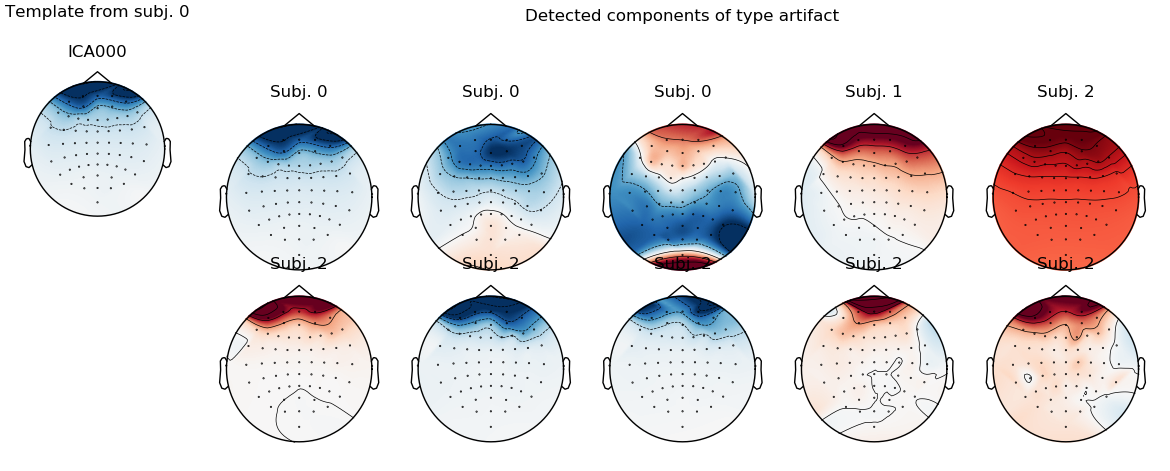
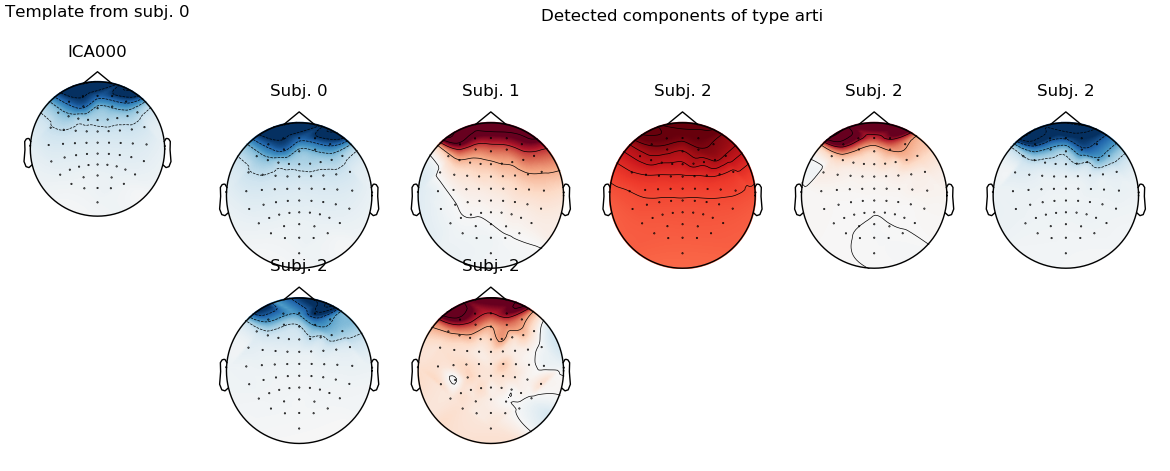
Added new test methods

diff --git a/preprocessing/test.py b/preprocessing/test.py
@@ -1,6 +1,7 @@
 from pirate import Pirates
 import os
 import numpy as np
+import matplotlib.pyplot as plt
 
 cwd = os.getcwd()
 preprocessing = os.path.join(cwd, "preprocessing")
@@ -27,10 +28,9 @@ other = [1,2]
 mov = [33, 42]
 nb = [21, 40, 44, 48]
 comp_template = eye + other + mov + nb
-not_found = [23, 46, 62]
 
 
-Pirates.corr_map(icas, 0, comp_template, dir_templates, threshold=0.80, label="artifact")
+corr = Pirates.corr_map(icas, 0, comp_template, dir_templates, "arti", threshold=0.85)
 #reco_raws = Pirates.reconstruct_raws(icas, raws_clean, "artifact")
 #Pirates.plot_post_psd(reco_raws, dir_post_psd, overwrite=True)
 
@@ -39,39 +39,66 @@ Pirates.corr_map(icas, 0, comp_template, dir_templates, threshold=0.80, label="a
 
 
 import matplotlib.pyplot as plt
+from PIL import Image
 from mne.time_frequency import psd_multitaper, psd_welch
 
+icas = icas
+label = "arti"
+dir_topo_psd = os.getcwd()
+list_sub = sub
+raws = raws_clean
 
-cwd = os.getcwd()
-ax1 = icas[0].plot_components(picks=0)
-path_comp = os.path.join(cwd, "1.png")
-ax1.savefig(path_comp)
-plt.close(ax1)
-sources = icas[0].get_sources(raws_clean[0])
-psds, freqs = psd_welch(sources, picks=[0])
-psds = 10*np.log10(psds)
-psds_mean = psds.mean(0)
-plt.figure(figsize=(2.5,2))
-plt.plot(freqs, psds_mean)
-path_psd = os.path.join(cwd, "la.png")
-plt.savefig(path_psd)
-plt.close("all")
+#Qui defnire
+subjs = list()
+for ica,subj in zip(icas[1:],raws[1:]):
+    img_paths = list()
+    lab = ica.labels_[label]
+    for n in lab:
+        ax1 = ica.plot_components(picks=n, title=subj.__repr__()[10:14])
+        path_comp = os.path.join(dir_topo_psd, "TOPO"  + subj.__repr__()[10:14] + "C" + str(n) + ".png")
+        ax1.savefig(path_comp)
+        plt.close(ax1)
+        sources = ica.get_sources(subj)
+        psds, freqs = psd_welch(sources, picks=[n])
+        psds = 10 * np.log10(psds)
+        psds_mean = psds.mean(0)
+        plt.figure(figsize=(2.5, 2))
+        plt.plot(freqs, psds_mean)
+        path_psd = os.path.join(dir_topo_psd, "PSD" + subj.__repr__()[10:14] + "C" + str(n) + ".png")
+        plt.savefig(path_psd)
+        plt.close("all")
+        psd = Image.open(path_comp)
+        topo = Image.open(path_psd)
+        imgs = [psd, topo]
+        width_0, height_0 = imgs[0].size
+        width_1, height_1 = imgs[1].size
+        real_width = width_0 + width_1
+        real_height = height_1 + 15
+        new_im = Image.new('RGBA', (real_width, real_height))
+        x_offset = 0
+        for im in imgs:
+            new_im.paste(im, (x_offset, 0))
+            x_offset += im.size[0]
 
-from PIL import Image
-psd = Image.open(path_comp)
-topo = Image.open(path_psd)
-imgs = [psd, topo]
-width_0, height_0 = imgs[0].size
-width_1, height_1 = imgs[1].size
-real_width = width_0 + width_1
-real_height = height_1 + 15
-new_im = Image.new('RGBA', (real_width, real_height))
-x_offset = 0
-for im in imgs:
-    new_im.paste(im, (x_offset, 0))
-    x_offset += im.size[0]
-new_im.save(os.path.join(cwd, "new.png"))
-os.remove(path_psd)
-os.remove(path_comp)
-plt.close('all')
+        img_path = os.path.join(dir_topo_psd, subj.__repr__()[10:14] + "C" + str(n) + ".png")
+        new_im.save(img_path)
+        img_paths.append(img_path)
+        os.remove(path_psd)
+        os.remove(path_comp)
+        plt.close('all')
+    subjs.append(img_paths)
+        
+
+
+
+
+
+
+
+
+
+
+
+
+
 

diff --git a/pirate.py b/pirate.py
@@ -421,6 +421,16 @@ class Pirates:
             plt.close('all')
         return None
 
+
+    @staticmethod
+    def psd_top_corr_map(icas, ica_temp, comp_template,):
+        for comp in comp_template:
+            corrmap(icas, template=(ica_temp, comp), label=str(comp))
+            plt.close("all")
+
+
+
+
 if __name__ == "__main__":
     # Make sure that you have the latest version of mne-pyhton
     pass
